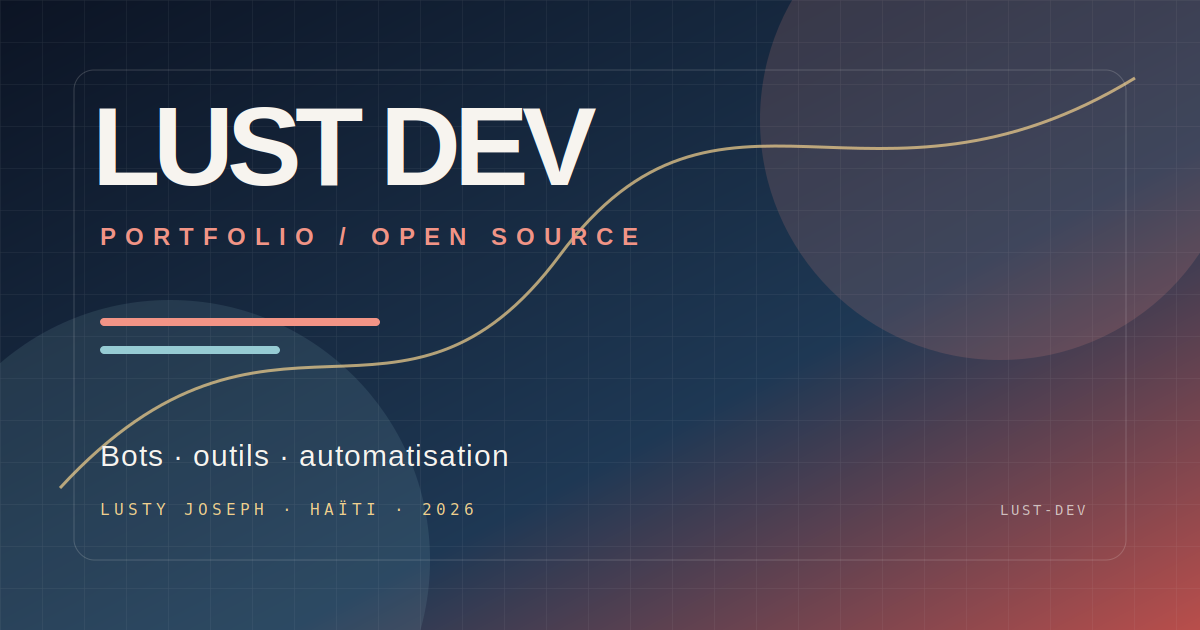
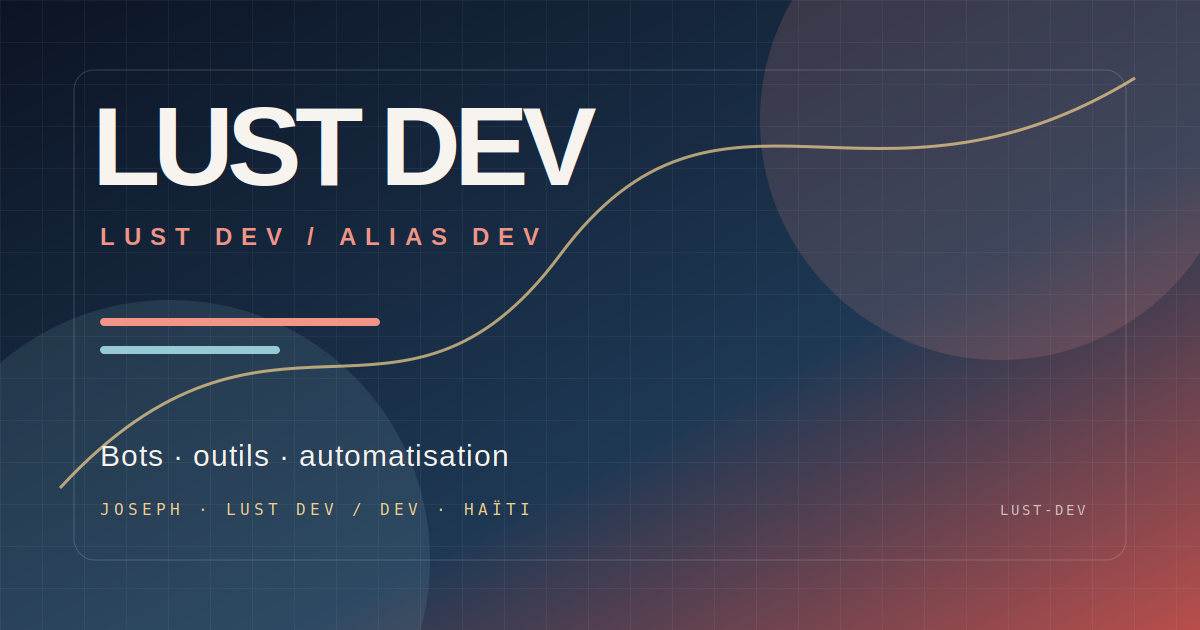
feat: refine joseph identity and earth connect view

Changed region(s): [[0.0925, 0.3619, 0.555, 0.3921], [0.0925, 0.7841, 0.4317, 0.8143]]

diff --git a/client/src/pages/Home.tsx b/client/src/pages/Home.tsx
@@ -24,9 +24,11 @@ import {
 
 const links = {
   github: "https://github.com/LUST-DEV",
-  youtube: "https://youtube.com/channel/UC7R0pFFLu6vSYblJGLQrVCQ?si=nfIhDsGTLOTQX2Af",
+  youtube: "https://www.youtube.com/@LUSTDEV",
   whatsapp: "https://whatsapp.com/channel/0029VbCiqwyBVJl3Jv5T4I15",
+  whatsappContact: "https://wa.me/18294786326",
   telegram: "https://t.me/yokubo666",
+  telegramJoseph: "https://t.me/JOSEPHLUSTY",
   email: "mailto:lustdev927@gmail.com",
   phone: "tel:+18294786326",
 };
@@ -125,7 +127,7 @@ function RainParticles() {
   );
 }
 
-function NetworkTelemetry() {
+function NetworkTelemetry({ showPlanet, onTogglePlanet }: { showPlanet: boolean; onTogglePlanet: () => void }) {
   const [latency, setLatency] = useState<number | null>(null);
   const [online, setOnline] = useState(() => typeof navigator === "undefined" ? true : navigator.onLine);
   const [glow, setGlow] = useState<"coral" | "cyan" | "gold">("coral");
@@ -165,9 +167,9 @@ function NetworkTelemetry() {
       <div className="telemetry-row"><span><i className={`telemetry-dot ${online ? "is-online" : "is-offline"}`} /> Statut</span><strong>{online ? "EN LIGNE" : "HORS LIGNE"}</strong></div>
       <div className="telemetry-row"><span><Gauge size={13} aria-hidden="true" /> Latence</span><strong>{latency === null ? "—" : `${latency} ms`}</strong></div>
       <div className="telemetry-row"><span><Globe2 size={13} aria-hidden="true" /> Session</span><strong>VISITEUR</strong></div>
-      <button className={`glow-control glow-${glow}`} type="button" onClick={cycleGlow} aria-label="Changer la couleur du halo du globe">
+      <button className={`glow-control glow-${glow}`} type="button" onClick={() => { onTogglePlanet(); cycleGlow(); }} aria-label="Basculer entre le réseau et la planète Terre">
         <span className="planet" aria-hidden="true"><span className="planet-grid" /></span>
-        <span>TOUCH / CHANGE GLOW</span>
+        <span>{showPlanet ? "TOUCH / NETWORK VIEW" : "TOUCH / PLANET EARTH"}</span>
       </button>
     </div>
   );
@@ -175,6 +177,7 @@ function NetworkTelemetry() {
 
 export default function Home() {
   const [menuOpen, setMenuOpen] = useState(false);
+  const [showPlanet, setShowPlanet] = useState(false);
   const [theme, setTheme] = useState<"light" | "dark">(() => {
     if (typeof window === "undefined") return "light";
     const previewTheme = new URLSearchParams(window.location.search).get("theme");
@@ -243,7 +246,7 @@ export default function Home() {
             <p className="eyebrow"><span className="pulse-dot" /> Portfolio personnel · LUST DEV</p>
             <h1 id="hero-title">Des idées qui<br /><em>prennent forme.</em></h1>
             <p className="hero-intro">
-              Lusty Joseph Gregoire, connu sous le nom de LUST DEV et parfois de Valery, crée des outils, des bots et des expériences numériques avec une curiosité constante.
+              Joseph Gregoire, connu sous le nom de LUST DEV — alias DEV, crée des outils, des bots et des expériences numériques avec une curiosité constante.
             </p>
             <div className="hero-tags" aria-label="Domaines d’activité">
               <span className="label-chip">Bots</span>
@@ -300,12 +303,12 @@ export default function Home() {
           <div className="profile-layout">
             <div className="section-heading-block">
               <p className="eyebrow">À PROPOS DE LUST DEV</p>
-              <h2 id="profile-title">Lusty Joseph<br /><span>en clair.</span></h2>
+              <h2 id="profile-title">Joseph<br /><span>en clair.</span></h2>
             </div>
             <div className="profile-copy">
-              <p className="lead-copy">Né en Haïti le 28 janvier, Lusty Joseph Gregoire est passionné par la programmation, la technologie et le hacking éthique.</p>
+              <p className="lead-copy">Né en Haïti le 28 janvier, Joseph Gregoire est passionné par la programmation, la technologie et le hacking éthique.</p>
               <p>À 16 ans, il crée son premier projet HTML à Eagle Stream Academy. Depuis, sa curiosité l’amène à comprendre comment les choses fonctionnent, à apprendre chaque jour et à transformer ses découvertes en projets publics.</p>
-              <p>Connu aussi sous le nom de jeu <strong>Valery</strong>, il construit une identité ouverte entre code, créativité et culture numérique.</p>
+              <p>Connu publiquement sous le nom de <strong>LUST DEV</strong>, alias <strong>DEV</strong>, il construit une identité ouverte entre code, créativité et culture numérique.</p>
               <a className="inline-arrow-link" href={links.github} target="_blank" rel="noopener noreferrer">
                 Parcourir l’écosystème public <ArrowUpRight size={17} aria-hidden="true" />
               </a>
@@ -323,12 +326,12 @@ export default function Home() {
             </div>
             <div className="identity-grid">
               <div><span>Nom</span><strong>Gregoire</strong></div>
-              <div><span>Prénom</span><strong>Lusty Joseph</strong></div>
+              <div><span>Prénom</span><strong>Joseph</strong></div>
               <div><span>Signature</span><strong>joseph</strong></div>
               <div><span>Né le</span><strong>28 janvier</strong></div>
               <div><span>Nationalité</span><strong>Haïtien</strong></div>
               <div><span>Ville</span><strong>Delmas, Haïti</strong></div>
-              <div><span>Alias</span><strong>Valery</strong></div>
+              <div><span>Alias</span><strong>LUST DEV : DEV</strong></div>
             </div>
             <div className="identity-footer"><span>IDENTITY / 001</span><span>EAGLE STREAM ACADEMY · 16 ANS</span><span>BUILDING IN PUBLIC</span></div>
           </div>
@@ -419,8 +422,10 @@ export default function Home() {
             </div>
             <div className="social-list">
               <SocialLink href={links.youtube} icon={<Youtube size={19} />} label="YouTube" handle="@欲LUSTDEV望 · tutoriels" />
-              <SocialLink href={links.whatsapp} icon={<MessageCircle size={19} />} label="WhatsApp" handle="Canal LUST DEV" />
+              <SocialLink href={links.whatsappContact} icon={<MessageCircle size={19} />} label="WhatsApp" handle="Support direct · +1 829 478 6326" />
+              <SocialLink href={links.whatsapp} icon={<MessageCircle size={19} />} label="WhatsApp Channel" handle="Canal LUST DEV" />
               <SocialLink href={links.telegram} icon={<Send size={19} />} label="Telegram" handle="@yokubo666" />
+              <SocialLink href={links.telegramJoseph} icon={<Send size={19} />} label="Telegram Joseph" handle="@JOSEPHLUSTY" />
               <SocialLink href={links.github} icon={<Github size={19} />} label="GitHub" handle="@LUST-DEV · repositories" />
               <div className="contact-card" aria-label="Coordonnées professionnelles">
                 <p className="contact-card-label">CONTACT DIRECT / COLLABORATION</p>
@@ -429,10 +434,11 @@ export default function Home() {
               </div>
             </div>
             <div className="network-visual">
-              <img src={`${import.meta.env.BASE_URL}lust-network.svg`} alt="" />
+              {!showPlanet && <img src={`${import.meta.env.BASE_URL}lust-network.svg`} alt="Réseau LUST DEV" />}
+              {showPlanet && <img className="earth-visual" src={`${import.meta.env.BASE_URL}lust-earth.svg`} alt="Planète Terre stylisée, vue depuis l’espace" />}
               <span className="network-coordinates">48° / 02° / 26°</span>
               <Bot className="network-bot" size={30} strokeWidth={1.2} />
-              <NetworkTelemetry />
+              <NetworkTelemetry showPlanet={showPlanet} onTogglePlanet={() => setShowPlanet((current) => !current)} />
             </div>
           </div>
         </section>

diff --git a/client/index.html b/client/index.html
@@ -5,16 +5,16 @@
     <meta charset="UTF-8" />
     <meta name="viewport" content="width=device-width, initial-scale=1.0" />
     <meta name="theme-color" content="#090909" />
-    <meta name="description" content="Lusty Joseph Gregoire, connu sous le nom de LUST DEV ou Valery : développeur haïtien passionné par HTML, CSS, JavaScript, la technologie et le hacking éthique." />
-    <meta name="keywords" content="Lusty Joseph Gregoire, LUST DEV, Valery, développeur haïtien, Delmas, portfolio, HTML, CSS, JavaScript, hacking éthique, GitHub" />
-    <meta name="author" content="Lusty Joseph Gregoire — LUST DEV" />
+    <meta name="description" content="Joseph Gregoire, connu sous le nom de LUST DEV — alias DEV : développeur haïtien passionné par HTML, CSS, JavaScript, la technologie et le hacking éthique." />
+    <meta name="keywords" content="Joseph Gregoire, LUST DEV, DEV, développeur haïtien, Delmas, portfolio, HTML, CSS, JavaScript, hacking éthique, GitHub" />
+    <meta name="author" content="Joseph Gregoire — LUST DEV / DEV" />
     <meta name="google-site-verification" content="AqkFTV_JH0_c7Px2nvaKHwxlEPx_D_SixPveB2h_-rs" />
     <meta name="robots" content="index, follow, max-image-preview:large, max-snippet:-1, max-video-preview:-1" />
     <link rel="canonical" href="https://lust-dev.github.io/lust-dev-portfolio/" />
     <link rel="manifest" href="./manifest.json" />
     <meta property="og:type" content="website" />
     <meta property="og:locale" content="fr_FR" />
-    <meta property="og:title" content="Lusty Joseph Gregoire — LUST DEV" />
+    <meta property="og:title" content="Joseph Gregoire — LUST DEV / DEV" />
     <meta property="og:description" content="Du code qui prend position. Explorez le portfolio, les projets et les canaux publics de LUST DEV." />
     <meta property="og:url" content="https://lust-dev.github.io/lust-dev-portfolio/" />
     <meta property="og:site_name" content="LUST DEV" />
@@ -23,12 +23,12 @@
     <meta property="og:image:type" content="image/png" />
     <meta property="og:image:width" content="1200" />
     <meta property="og:image:height" content="630" />
-    <meta property="og:image:alt" content="LUST DEV — portfolio de Lusty Joseph" />
+    <meta property="og:image:alt" content="LUST DEV — portfolio de Joseph Gregoire" />
     <meta name="twitter:card" content="summary_large_image" />
-    <meta name="twitter:title" content="Lusty Joseph — LUST DEV" />
+    <meta name="twitter:title" content="Joseph Gregoire — LUST DEV / DEV" />
     <meta name="twitter:description" content="Bots, outils, automatisation et présence publique." />
     <meta name="twitter:image" content="https://lust-dev.github.io/lust-dev-portfolio/og-image.png" />
-    <meta name="twitter:image:alt" content="LUST DEV — portfolio de Lusty Joseph" />
+    <meta name="twitter:image:alt" content="LUST DEV — portfolio de Joseph Gregoire" />
     <script type="application/ld+json">
       {
         "@context": "https://schema.org",
@@ -43,9 +43,9 @@
           {
             "@type": "Person",
             "@id": "https://lust-dev.github.io/lust-dev-portfolio/#person",
-            "name": "Lusty Joseph Gregoire",
+            "name": "Joseph Gregoire",
             "alternateName": "LUST DEV",
-            "additionalName": "Valery",
+            "additionalName": "DEV",
             "jobTitle": "Independent developer",
             "nationality": "Haitian",
             "email": "lustdev927@gmail.com",
@@ -57,15 +57,17 @@
             "url": "https://github.com/LUST-DEV",
             "sameAs": [
               "https://github.com/LUST-DEV",
-              "https://youtube.com/channel/UC7R0pFFLu6vSYblJGLQrVCQ?si=nfIhDsGTLOTQX2Af",
+              "https://www.youtube.com/@LUSTDEV",
               "https://whatsapp.com/channel/0029VbCiqwyBVJl3Jv5T4I15",
-              "https://t.me/yokubo666"
+              "https://wa.me/18294786326",
+              "https://t.me/yokubo666",
+              "https://t.me/JOSEPHLUSTY"
             ]
           }
         ]
       }
     </script>
-    <title>Lusty Joseph Gregoire — LUST DEV</title>
+    <title>Joseph Gregoire — LUST DEV / DEV</title>
   </head>
   <body>
     <div id="root"></div>

diff --git a/client/src/index.css b/client/src/index.css
@@ -199,6 +199,7 @@ h2 { font-size: clamp(3.2rem, 6.4vw, 6.5rem); }
 .network-visual::before { position: absolute; z-index: 1; content: "CONNECT / LUST DEV"; left: .8rem; top: .8rem; color: var(--white); font-family: "Space Grotesk", sans-serif; font-size: .56rem; font-weight: 700; letter-spacing: .11em; }
 .network-visual::after { position: absolute; content: ""; inset: 0; background: linear-gradient(180deg, rgba(32,48,74,.02), rgba(32,48,74,.68)); }
 .network-visual img { display: block; width: 100%; height: 100%; min-height: 19rem; object-fit: cover; opacity: .62; filter: saturate(.72); }
+.network-visual .earth-visual { opacity: .95; filter: saturate(1.15) contrast(1.08); animation: earth-reveal 520ms var(--ease-out) both; }
 .network-coordinates { position: absolute; z-index: 1; left: .8rem; bottom: .8rem; color: var(--white); font-family: "Space Grotesk", sans-serif; font-size: .56rem; letter-spacing: .12em; }
 .network-bot { position: absolute; z-index: 1; right: 1rem; top: 1rem; color: var(--butter); }
 .network-telemetry { position: absolute; z-index: 3; inset: 3rem .8rem .8rem; display: grid; align-content: end; gap: .35rem; color: #f7f4ef; font-family: "Space Grotesk", sans-serif; }
@@ -415,6 +416,7 @@ h2 { font-size: clamp(3.2rem, 6.4vw, 6.5rem); }
 .cookie-button-primary:hover, .cookie-button-primary:focus-visible { background: var(--ink); }
 @keyframes cookie-rise { from { opacity: 0; transform: translateY(1rem); } to { opacity: 1; transform: translateY(0); } }
 @keyframes planet-float { 0%, 100% { transform: translateY(0) rotate(-3deg); } 50% { transform: translateY(-4px) rotate(3deg); } }
+@keyframes earth-reveal { from { opacity: 0; transform: scale(.86) rotate(-8deg); } to { opacity: .95; transform: scale(1) rotate(0); } }
 .theme-dark .cookie-banner { box-shadow: 0 1rem 3rem rgba(0,0,0,.3); }
 .theme-dark .contact-card { background: rgba(17,26,42,.72); }
 @media (max-width: 640px) { .cookie-banner { align-items: stretch; flex-direction: column; gap: 1rem; } .cookie-actions { width: 100%; } .cookie-button { min-width: 0; flex: 1; } }

diff --git a/README.md b/README.md
@@ -2,7 +2,7 @@
 
 > **Du code qui prend position.**
 
-Portfolio personnel de **Lusty Joseph Gregoire**, connu sous le nom de **LUST DEV** et parfois de **Valery** : développeur indépendant haïtien, créateur de bots, d’outils et d’expériences numériques pensées pour être utiles, lisibles et accessibles.
+Portfolio personnel de **Joseph Gregoire**, connu sous le nom de **LUST DEV**, alias **DEV** : développeur indépendant haïtien, créateur de bots, d’outils et d’expériences numériques pensées pour être utiles, lisibles et accessibles.
 
 [![Déployer avec Vercel](https://vercel.com/button)](https://vercel.com/new/clone?repository-url=https://github.com/LUST-DEV/lust-dev-portfolio)
 [![Licence MIT](https://img.shields.io/badge/license-MIT-20304a.svg)](LICENSE)
@@ -10,13 +10,13 @@ Portfolio personnel de **Lusty Joseph Gregoire**, connu sous le nom de **LUST DE
 [![React](https://img.shields.io/badge/React-19-61dafb.svg)](https://react.dev/)
 
 [![GitHub — LUST DEV](https://img.shields.io/badge/GitHub-LUST--DEV-181717?logo=github&logoColor=white)](https://github.com/LUST-DEV)
-[![YouTube — LUST DEV](https://img.shields.io/badge/YouTube-LUST--DEV-FF0000?logo=youtube&logoColor=white)](https://youtube.com/channel/UC7R0pFFLu6vSYblJGLQrVCQ?si=nfIhDsGTLOTQX2Af)
+[![YouTube — LUST DEV](https://img.shields.io/badge/YouTube-LUST--DEV-FF0000?logo=youtube&logoColor=white)](https://www.youtube.com/@LUSTDEV)
 [![WhatsApp — Canal LUST DEV](https://img.shields.io/badge/WhatsApp-Canal_LUST_DEV-25D366?logo=whatsapp&logoColor=white)](https://whatsapp.com/channel/0029VbCiqwyBVJl3Jv5T4I15)
 [![Telegram — @yokubo666](https://img.shields.io/badge/Telegram-%40yokubo666-229ED9?logo=telegram&logoColor=white)](https://t.me/yokubo666)
 
 ## Présentation
 
-LUST DEV est né en Haïti, le 28 janvier. À 16 ans, Lusty Joseph Gregoire crée son premier projet HTML à **Eagle Stream Academy**. Passionné par la programmation, la technologie et le hacking éthique, il cherche à comprendre le fonctionnement des choses et apprend chaque jour par la pratique.
+LUST DEV est né en Haïti, le 28 janvier. À 16 ans, Joseph crée son premier projet HTML à **Eagle Stream Academy**. Passionné par la programmation, la technologie et le hacking éthique, il cherche à comprendre le fonctionnement des choses et apprend chaque jour par la pratique.
 
 Le site est un espace public pour explorer ses projets open source, ses outils d’automatisation et son identité numérique. Il privilégie une direction artistique sombre et expressive : typographie nette, labels courts, pluie de particules, effets glow, animations de touches et lecture confortable sur mobile comme sur grand écran.
 
@@ -24,8 +24,8 @@ Le site est un espace public pour explorer ses projets open source, ses outils d
 
 | Repère | Détail |
 |---|---|
-| Identité | LUST DEV / Lusty Joseph Gregoire |
-| Alias | Valery · signature : joseph |
+| Identité | LUST DEV / Joseph Gregoire |
+| Alias | LUST DEV : DEV · signature : joseph |
 | Profil | Développeur indépendant haïtien, basé à Delmas |
 | Parcours | Premier projet HTML à 16 ans · Eagle Stream Academy |
 | Terrains | Bots, outils, scripts, automatisation et interfaces web |
@@ -67,9 +67,10 @@ La liste complète est disponible sur le [profil GitHub de LUST DEV](https://git
 | Canal | Lien |
 |---|---|
 | **GitHub** | [LUST-DEV · repositories](https://github.com/LUST-DEV) |
-| **YouTube** | [LUST DEV · tutoriels et vidéos](https://youtube.com/channel/UC7R0pFFLu6vSYblJGLQrVCQ?si=nfIhDsGTLOTQX2Af) |
-| **WhatsApp** | [Canal LUST DEV · communauté](https://whatsapp.com/channel/0029VbCiqwyBVJl3Jv5T4I15) |
+| **YouTube** | [LUST DEV · tutoriels et vidéos](https://www.youtube.com/@LUSTDEV) |
+| **WhatsApp** | [Support direct · +1 829 478 6326](https://wa.me/18294786326) · [Canal LUST DEV](https://whatsapp.com/channel/0029VbCiqwyBVJl3Jv5T4I15) |
 | **Telegram** | [@yokubo666 · messages directs](https://t.me/yokubo666) |
+| **Telegram Joseph** | [@JOSEPHLUSTY · contact](https://t.me/JOSEPHLUSTY) |
 
 ## Installation locale
 
